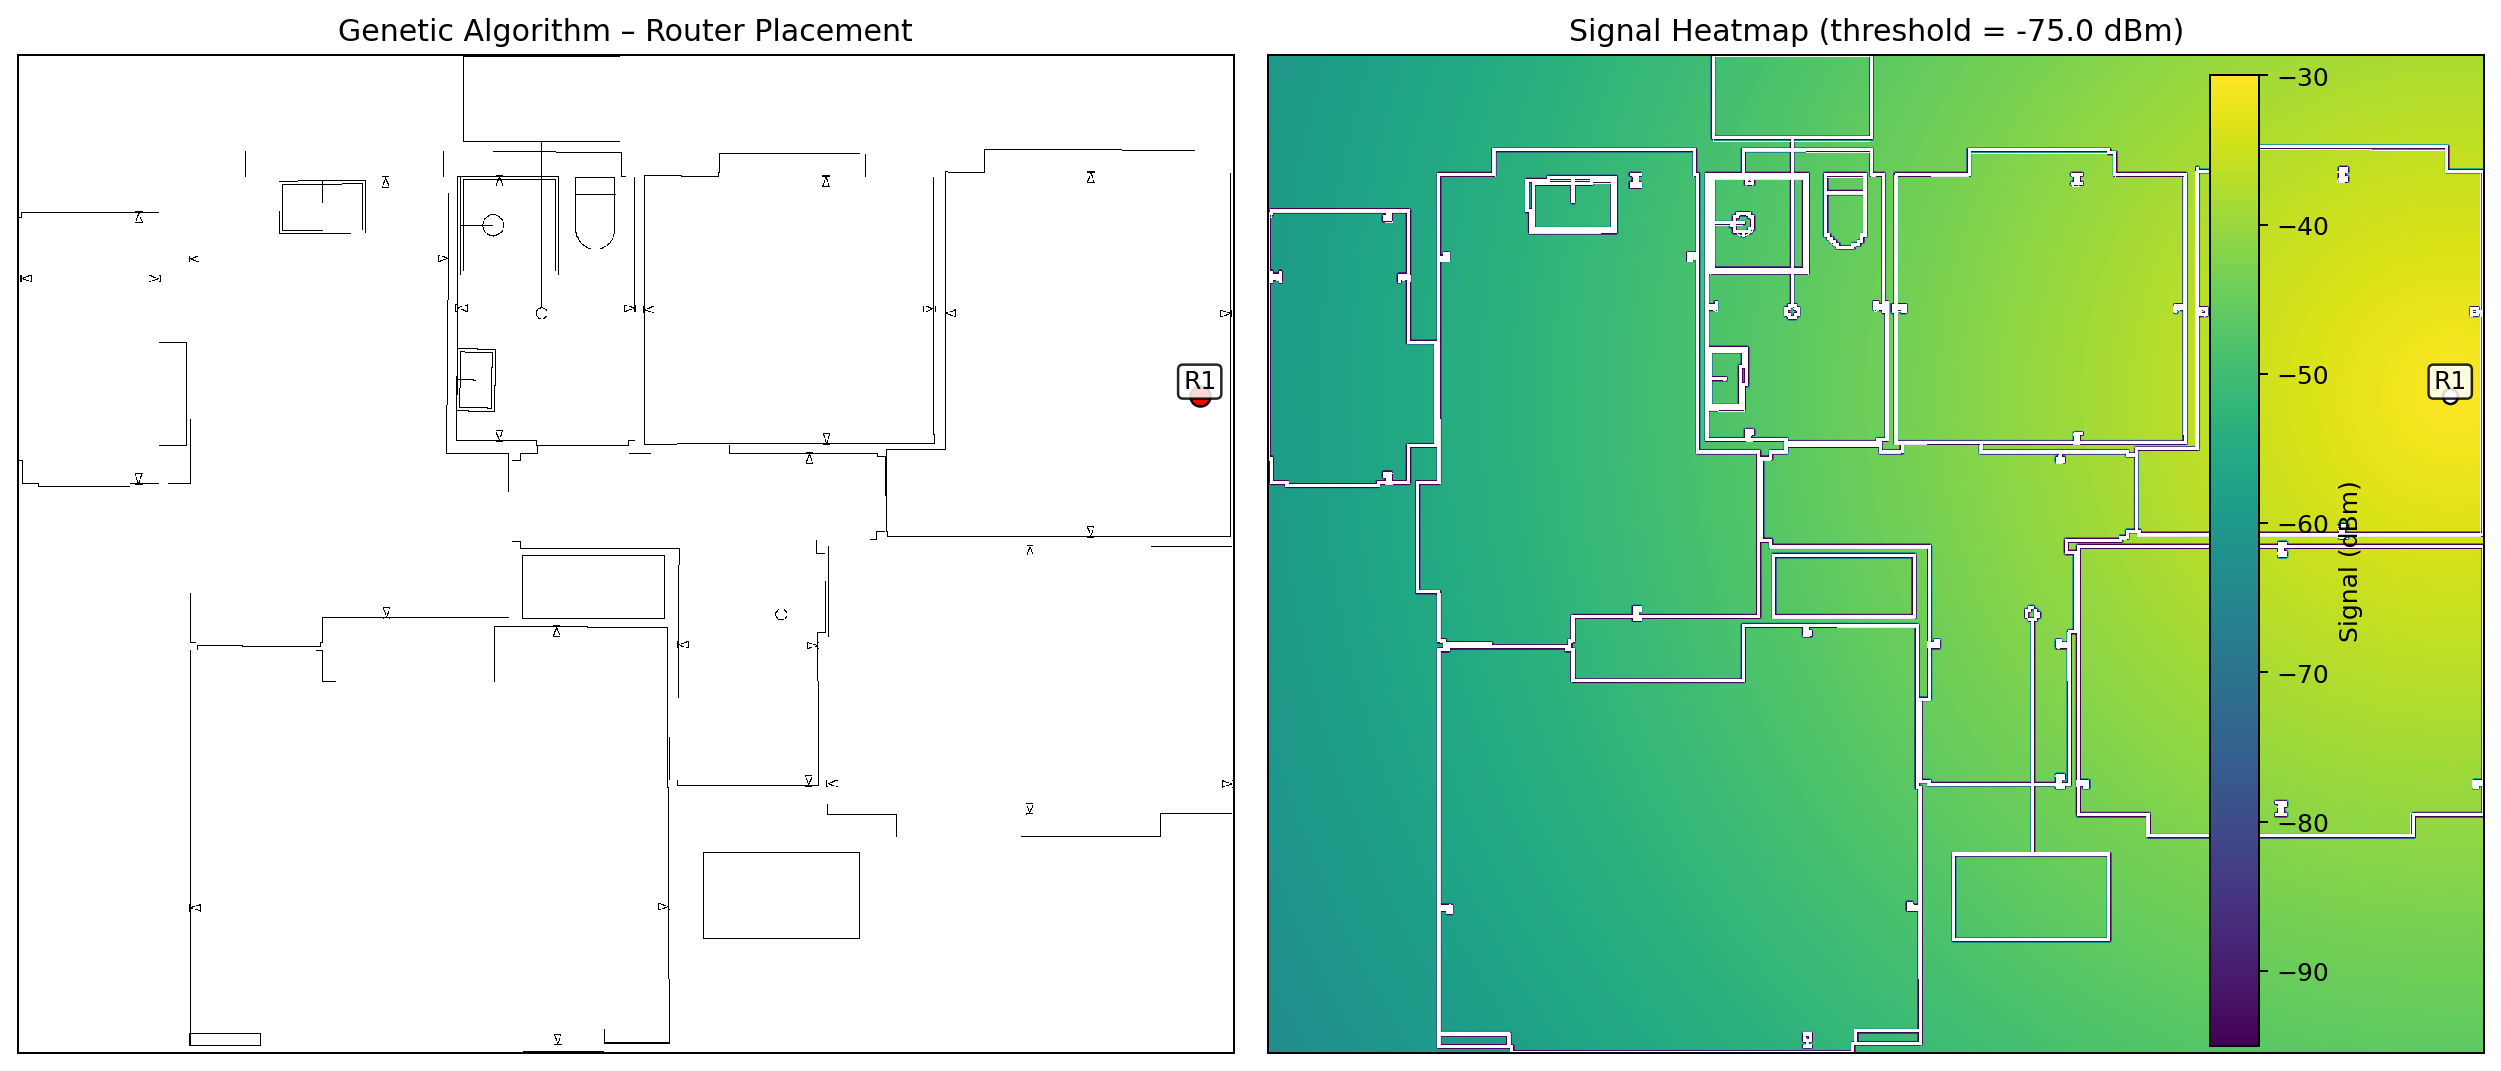
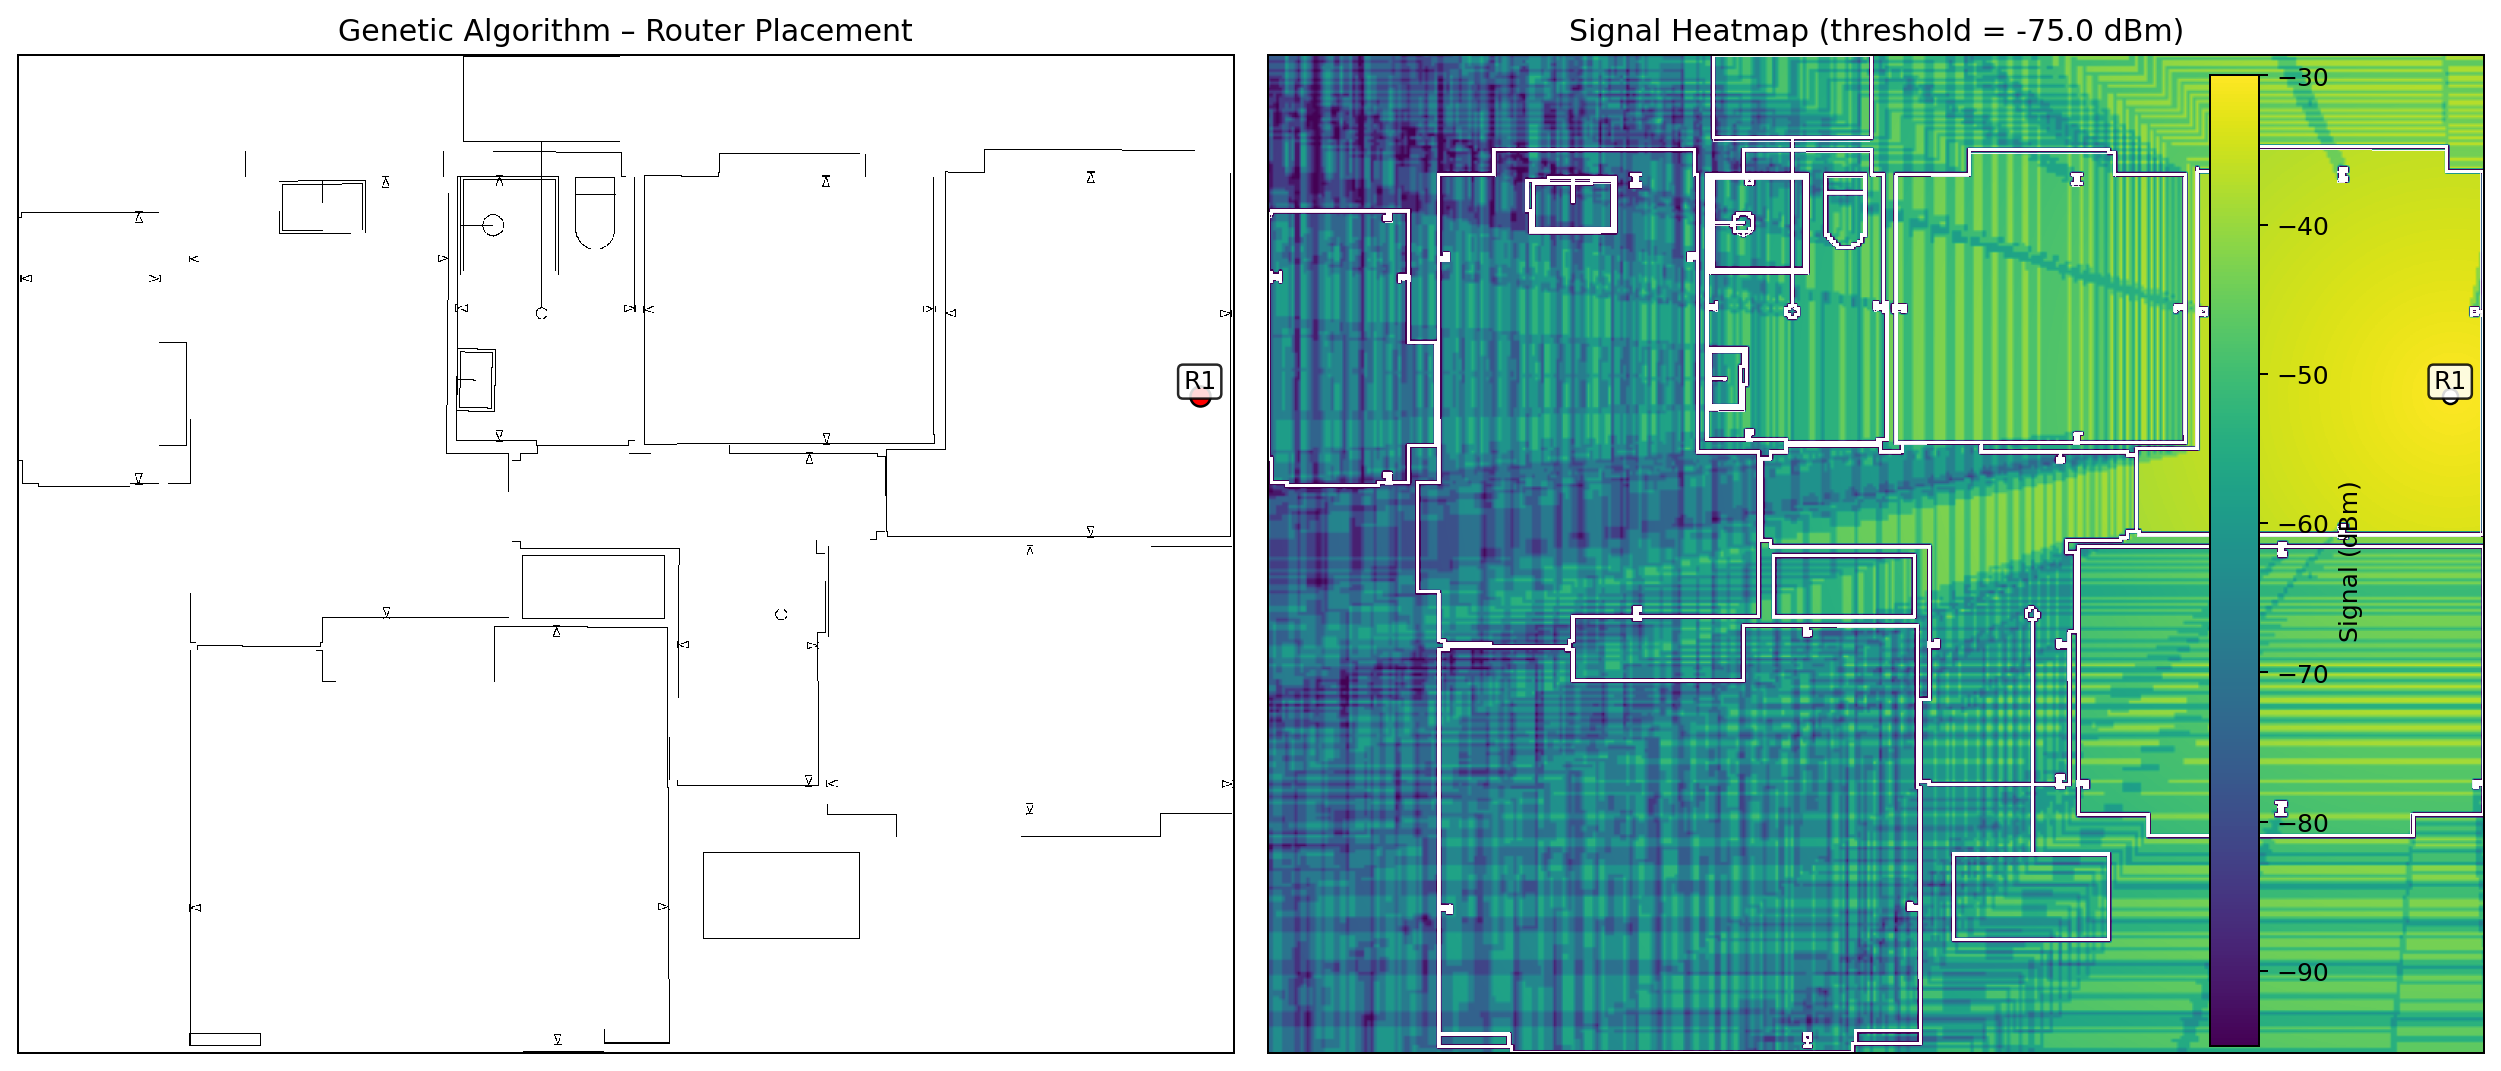
Add realistic signal attenuation and coverage calculations for WiFi placement
Integrate a vectorized ray-sampling method to calculate wall crossings and apply signal attenuation penalties, improving the accuracy of WiFi coverage simulations.

Replit-Commit-Author: Agent
Replit-Commit-Session-Id: 8a9ac715-13c0-4d53-a1d7-ec6735ffe544
Replit-Commit-Checkpoint-Type: full_checkpoint
Replit-Commit-Event-Id: d5a57d97-8d59-45ae-a764-d85f96d514f8
Replit-Commit-Screenshot-Url: https://storage.googleapis.com/screenshot-production-us-central1/68abd7b5-0b85-4e3e-a3d4-29f119f7cc09/8a9ac715-13c0-4d53-a1d7-ec6735ffe544/9Ls9ELE
Replit-Helium-Checkpoint-Created: true

diff --git a/optimization.py b/optimization.py
@@ -1,7 +1,11 @@
 """
 WiFi Router Placement Optimization module.
 Supports three strategies: genetic algorithm (ga), random, and uniform.
-Uses a fast vectorized signal model for speed.
+
+Signal model:
+  - Distance attenuation: S0 - k * distance_m
+  - Wall penalty: WALL_PENALTY dB per wall transition crossed (using vectorized
+    ray sampling via scipy map_coordinates — fast, no Python loops)
 """
 
 import os
@@ -12,79 +16,110 @@ import numpy as np
 import matplotlib
 matplotlib.use("Agg")
 import matplotlib.pyplot as plt
+from scipy.ndimage import map_coordinates
 
-from member_A_genetic_Algorithm_core.ga_core import run_ga, get_free_cells
+from member_A_genetic_Algorithm_core.ga_core import get_free_cells
 from member_B_signal_simulation_engine.signal_math import S_threshold
 
 REPO_ROOT = os.path.dirname(os.path.abspath(__file__))
 OUTPUT_DIR = os.path.join(REPO_ROOT, "outputs")
 
-# Signal constants (mirror signal_math.py)
+# ── Signal constants (must match signal_math.py) ────────────────────────────
 _S0 = -30.0
 _D_LOSS_K = 2.0
 _WALL_PENALTY = 8.0
 
 
-# ── Fast vectorized signal helpers ─────────────────────────────────────────
+# ── Core vectorized signal model ─────────────────────────────────────────────
 
 def _cell_size_m(grid):
-    """Estimate metres per cell from grid width (15 m reference building)."""
+    """Metres per cell, calibrated to a ~15 m reference building width."""
     return 15.0 / grid.shape[1]
 
 
-def _vectorized_heatmap(grid, routers):
+def _wall_crossings_map(grid, rx, ry, n_steps=50):
     """
-    Fast numpy heatmap using distance-based signal (no wall-crossing loop).
-    Returns a (H, W) array, NaN over walls.
+    For a single router at (rx, ry), compute the number of wall-entry
+    transitions (FREE→WALL) from the router to *every* cell in one
+    vectorised pass using scipy map_coordinates.
+
+    Returns an (H, W) float32 array of crossing counts.
+    """
+    h, w = grid.shape
+    y_idx, x_idx = np.mgrid[0:h, 0:w]          # (H, W) each
+
+    # Sample positions along the line router→cell: shape (n_steps, H, W)
+    t = np.linspace(0, 1, n_steps, dtype=np.float32).reshape(-1, 1, 1)
+    x_samp = (rx + t * (x_idx - rx)).reshape(-1)  # (n_steps*H*W,)
+    y_samp = (ry + t * (y_idx - ry)).reshape(-1)
+
+    # Sample grid values (0=free, 1=wall) at each interpolated point
+    sampled = map_coordinates(
+        grid.astype(np.float32),
+        [y_samp, x_samp],
+        order=0, mode='nearest',
+    ).reshape(n_steps, h, w)
+
+    # Count FREE→WALL transitions along each ray
+    crossings = ((sampled[1:] == 1) & (sampled[:-1] == 0)).sum(axis=0)
+    return crossings.astype(np.float32)
+
+
+def _signal_map(grid, routers, n_steps=50):
+    """
+    Full signal heatmap (dBm) with distance attenuation + wall penalty.
+    Returns (H, W) array; NaN over wall cells.
     """
     h, w = grid.shape
     cs = _cell_size_m(grid)
-    y_idx, x_idx = np.mgrid[0:h, 0:w]
-    heat = np.full((h, w), -300.0)
+    y_idx, x_idx = np.mgrid[0:h, 0:w].astype(np.float32)
+    heat = np.full((h, w), -300.0, dtype=np.float32)
+
     for rx, ry in routers:
         dist_m = np.sqrt((x_idx - rx) ** 2 + (y_idx - ry) ** 2) * cs
-        sig = _S0 - _D_LOSS_K * dist_m
+        crossings = _wall_crossings_map(grid, rx, ry, n_steps)
+        sig = _S0 - _D_LOSS_K * dist_m - _WALL_PENALTY * crossings
         heat = np.maximum(heat, sig)
+
     heat[grid != 0] = np.nan
     return heat
 
 
-def _vectorized_coverage(routers, grid):
+def _coverage_metrics(routers, grid, n_steps=50):
     """
-    Fast numpy coverage metrics using distance-based signal (no wall loops).
-    Returns (coverage_pct, avg_signal_dBm).
+    Compute coverage % and average signal using the full wall-penalty model.
+    """
+    heat = _signal_map(grid, routers, n_steps)
+    free_sig = heat[grid == 0]
+    if len(free_sig) == 0:
+        return 0.0, 0.0
+    coverage = float((free_sig >= S_threshold).mean() * 100)
+    avg_sig = float(free_sig.mean())
+    return coverage, avg_sig
+
+
+def _fast_fitness(routers, grid):
+    """
+    Distance-only (no wall) fitness for use INSIDE the GA loop.
+    Fast but approximate — used to guide search, not for final metrics.
     """
     h, w = grid.shape
     cs = _cell_size_m(grid)
-    y_idx, x_idx = np.mgrid[0:h, 0:w]
-    heat = np.full((h, w), -300.0)
+    y_idx, x_idx = np.mgrid[0:h, 0:w].astype(np.float32)
+    heat = np.full((h, w), -300.0, dtype=np.float32)
     for rx, ry in routers:
         dist_m = np.sqrt((x_idx - rx) ** 2 + (y_idx - ry) ** 2) * cs
-        sig = _S0 - _D_LOSS_K * dist_m
-        heat = np.maximum(heat, sig)
+        heat = np.maximum(heat, _S0 - _D_LOSS_K * dist_m)
     free = heat[grid == 0]
     if len(free) == 0:
-        return 0.0, 0.0
-    return float((free >= S_threshold).mean() * 100), float(free.mean())
+        return 0.0
+    return float((free >= S_threshold).mean() * 100)
 
 
-def _vectorized_fitness(routers, grid):
-    cov, _ = _vectorized_coverage(routers, grid)
-    return cov
-
-
-# ── Grid helpers ────────────────────────────────────────────────────────────
-
-def _max_pool(grid, factor):
-    """Downsample grid by factor using max-pooling (wall wins in any block)."""
-    h, w = grid.shape
-    h2, w2 = h // factor, w // factor
-    cropped = grid[:h2 * factor, :w2 * factor]
-    return cropped.reshape(h2, factor, w2, factor).max(axis=(1, 3))
-
+# ── Grid I/O ─────────────────────────────────────────────────────────────────
 
 def load_grids():
-    grid_opt = np.load(os.path.join(REPO_ROOT, "grid.npy")).astype(np.uint8)
+    grid_opt  = np.load(os.path.join(REPO_ROOT, "grid.npy")).astype(np.uint8)
     grid_disp = np.load(os.path.join(REPO_ROOT, "grid_display.npy")).astype(np.uint8)
     meta = {}
     meta_path = os.path.join(REPO_ROOT, "grid_meta.json")
@@ -95,77 +130,67 @@ def load_grids():
 
 
 def _scale_routers(routers, from_grid, to_grid):
-    """Scale router coords from one grid space to another."""
     fh, fw = from_grid.shape
     th, tw = to_grid.shape
-    sx = tw / fw
-    sy = th / fh
-    return [(min(int(x * sx), tw - 1), min(int(y * sy), th - 1)) for x, y in routers]
+    sx, sy = tw / fw, th / fh
+    return [(min(int(x * sx), tw - 1), min(int(y * sy), th - 1))
+            for x, y in routers]
 
 
-# ── Custom fast GA that uses vectorized fitness ─────────────────────────────
+# ── Placement strategies ──────────────────────────────────────────────────────
 
-def _run_fast_ga(grid, num_routers, population_size=20, generations=30, seed=42):
+def _run_ga(grid, num_routers, population_size=20, generations=30, seed=42):
     """
-    GA using a fast vectorized fitness function instead of the slow
-    cell-by-cell signal_math version.
+    Custom GA using the fast (distance-only) fitness for speed.
+    Final metrics are recomputed with the accurate wall model after the GA.
     """
-    import random as rng_mod
-    rng = rng_mod.Random(seed)
-
+    rng = _random.Random(seed)
     free = get_free_cells(grid)
     if num_routers > len(free):
         raise ValueError("num_routers exceeds number of free cells")
 
-    population = [rng.sample(free, num_routers) for _ in range(population_size)]
-    best_routers = population[0][:]
+    pop = [rng.sample(free, num_routers) for _ in range(population_size)]
+    best_ind = pop[0][:]
     best_fit = float('-inf')
 
     for _ in range(generations):
-        fits = [_vectorized_fitness(ind, grid) for ind in population]
+        fits = [_fast_fitness(ind, grid) for ind in pop]
 
-        gen_best_idx = max(range(len(population)), key=lambda i: fits[i])
-        if fits[gen_best_idx] > best_fit:
-            best_fit = fits[gen_best_idx]
-            best_routers = population[gen_best_idx][:]
+        gi = max(range(len(pop)), key=lambda i: fits[i])
+        if fits[gi] > best_fit:
+            best_fit = fits[gi]
+            best_ind = pop[gi][:]
 
-        # Elitism + tournament selection + crossover + mutation
-        elite = sorted(range(len(population)), key=lambda i: fits[i], reverse=True)[:2]
-        new_pop = [population[i][:] for i in elite]
+        elite_idx = sorted(range(len(pop)), key=lambda i: fits[i], reverse=True)[:2]
+        new_pop = [pop[i][:] for i in elite_idx]
 
         while len(new_pop) < population_size:
-            a = max(rng.sample(range(len(population)), 3), key=lambda i: fits[i])
-            b = max(rng.sample(range(len(population)), 3), key=lambda i: fits[i])
-            pa, pb = population[a], population[b]
+            a = max(rng.sample(range(len(pop)), 3), key=lambda i: fits[i])
+            b = max(rng.sample(range(len(pop)), 3), key=lambda i: fits[i])
+            pa, pb = pop[a], pop[b]
             if len(pa) >= 2 and rng.random() < 0.8:
                 cut = rng.randint(1, len(pa) - 1)
                 child = pa[:cut] + pb[cut:]
             else:
                 child = pa[:]
             child = [rng.choice(free) if rng.random() < 0.2 else g for g in child]
-            # repair duplicates
-            seen = set()
-            repaired = []
+            seen, repaired = set(), []
             for c in child:
                 if c not in seen:
-                    repaired.append(c)
-                    seen.add(c)
+                    repaired.append(c); seen.add(c)
             while len(repaired) < num_routers:
                 c = rng.choice(free)
                 if c not in seen:
-                    repaired.append(c)
-                    seen.add(c)
+                    repaired.append(c); seen.add(c)
             new_pop.append(repaired)
 
-        population = new_pop
+        pop = new_pop
 
-    return best_routers
+    return best_ind
 
-
-# ── Placement strategies ─────────────────────────────────────────────────────
 
 def ga_placement(grid, num_routers, seed=42):
-    return _run_fast_ga(grid, num_routers, population_size=20, generations=30, seed=seed)
+    return _run_ga(grid, num_routers, seed=seed)
 
 
 def random_placement(grid, num_routers, seed=None):
@@ -200,23 +225,18 @@ def uniform_placement(grid, num_routers):
                 break
             cx = min_x + (c + 0.5) * zone_w
             cy = min_y + (r + 0.5) * zone_h
-            best = min(free, key=lambda p: (p[0] - cx) ** 2 + (p[1] - cy) ** 2)
-            if best not in routers:
-                routers.append(best)
-            else:
-                for cand in sorted(free, key=lambda p: (p[0] - cx) ** 2 + (p[1] - cy) ** 2):
-                    if cand not in routers:
-                        routers.append(cand)
-                        break
-
+            for cand in sorted(free, key=lambda p: (p[0]-cx)**2 + (p[1]-cy)**2):
+                if cand not in routers:
+                    routers.append(cand)
+                    break
     return routers[:num_routers]
 
 
-# ── Visualization ─────────────────────────────────────────────────────────
+# ── Visualization ─────────────────────────────────────────────────────────────
 
 STRATEGY_LABELS = {
-    "ga": "Genetic Algorithm",
-    "random": "Random",
+    "ga":      "Genetic Algorithm",
+    "random":  "Random",
     "uniform": "Uniform Grid",
 }
 
@@ -226,26 +246,26 @@ def visualize_and_save(grid_disp, routers_disp, strategy,
     images_dir = os.path.join(output_dir, "images")
     os.makedirs(images_dir, exist_ok=True)
 
+    # Compute heatmap on opt grid (small) then upscale — avoids the 2M-cell loop
     if grid_opt is not None and routers_opt is not None:
-        heat_small = _vectorized_heatmap(grid_opt, routers_opt)
-        heat_small_clipped = np.clip(heat_small, -95, -30)
-        nan_mask = np.isnan(heat_small_clipped)
-        from scipy.ndimage import zoom as nd_zoom
+        heat_small = _signal_map(grid_opt, routers_opt, n_steps=50)
+        heat_small = np.clip(heat_small, -95, -30)
+        nan_mask = np.isnan(heat_small)
         th, tw = grid_disp.shape
-        zh = th / grid_opt.shape[0]
-        zw = tw / grid_opt.shape[1]
-        filled = np.where(nan_mask, -200.0, heat_small_clipped)
+        zh, zw = th / grid_opt.shape[0], tw / grid_opt.shape[1]
+        from scipy.ndimage import zoom as nd_zoom
+        filled = np.where(nan_mask, -200.0, heat_small)
         heat = nd_zoom(filled, (zh, zw), order=1)
         mask_up = nd_zoom(nan_mask.astype(float), (zh, zw), order=0)
         heat = np.where(mask_up > 0.5, np.nan, heat)
     else:
-        heat = _vectorized_heatmap(grid_disp, routers_disp)
+        heat = _signal_map(grid_disp, routers_disp, n_steps=50)
         heat = np.clip(heat, -95, -30)
 
     label = STRATEGY_LABELS.get(strategy, strategy)
-
     fig, axes = plt.subplots(1, 2, figsize=(14, 7))
 
+    # Left: placement on floor plan
     ax0 = axes[0]
     ax0.imshow(grid_disp, cmap="gray_r", origin="lower", interpolation="nearest")
     for i, (x, y) in enumerate(routers_disp, start=1):
@@ -253,21 +273,21 @@ def visualize_and_save(grid_disp, routers_disp, strategy,
         ax0.text(x, y + 3, f"R{i}", ha="center", va="bottom",
                  bbox=dict(boxstyle="round,pad=0.2", facecolor="white", alpha=0.85))
     ax0.set_title(f"{label} – Router Placement")
-    ax0.set_xticks([])
-    ax0.set_yticks([])
+    ax0.set_xticks([]); ax0.set_yticks([])
 
+    # Right: signal heatmap with wall overlay
     ax1 = axes[1]
-    im = ax1.imshow(heat, origin="lower", cmap="viridis", interpolation="nearest",
-                    vmin=-95, vmax=-30)
+    im = ax1.imshow(heat, origin="lower", cmap="viridis",
+                    interpolation="nearest", vmin=-95, vmax=-30)
     wall_mask = np.ma.masked_where(grid_disp == 0, grid_disp)
-    ax1.imshow(wall_mask, origin="lower", cmap="gray_r", alpha=0.9, interpolation="nearest")
+    ax1.imshow(wall_mask, origin="lower", cmap="gray_r",
+               alpha=0.9, interpolation="nearest")
     for i, (x, y) in enumerate(routers_disp, start=1):
         ax1.plot(x, y, "wo", markersize=6, markeredgecolor="black")
         ax1.text(x, y + 3, f"R{i}", ha="center", va="bottom",
                  bbox=dict(boxstyle="round,pad=0.2", facecolor="white", alpha=0.85))
     ax1.set_title(f"Signal Heatmap (threshold = {S_threshold} dBm)")
-    ax1.set_xticks([])
-    ax1.set_yticks([])
+    ax1.set_xticks([]); ax1.set_yticks([])
 
     cbar = fig.colorbar(im, ax=axes.ravel().tolist(), fraction=0.025, pad=0.02)
     cbar.set_label("Signal (dBm)")
@@ -279,7 +299,7 @@ def visualize_and_save(grid_disp, routers_disp, strategy,
     return save_path
 
 
-# ── Main entry point ─────────────────────────────────────────────────────────
+# ── Main entry point ──────────────────────────────────────────────────────────
 
 def run_optimization(strategy, num_routers, seed=42):
     grid_opt, grid_disp, meta = load_grids()
@@ -293,7 +313,8 @@ def run_optimization(strategy, num_routers, seed=42):
     else:
         raise ValueError(f"Unknown strategy: {strategy}")
 
-    coverage_pct, avg_signal = _vectorized_coverage(routers_opt, grid_opt)
+    # Accurate coverage metrics using the full wall-penalty model
+    coverage_pct, avg_signal = _coverage_metrics(routers_opt, grid_opt, n_steps=50)
     routers_disp = _scale_routers(routers_opt, grid_opt, grid_disp)
 
     image_path = visualize_and_save(
@@ -305,10 +326,10 @@ def run_optimization(strategy, num_routers, seed=42):
         "strategy": strategy,
         "num_routers": num_routers,
         "routers_optimization_grid": [{"x": int(x), "y": int(y)} for x, y in routers_opt],
-        "routers_display_grid": [{"x": int(x), "y": int(y)} for x, y in routers_disp],
-        "coverage_percent": float(coverage_pct),
-        "average_signal_dBm": float(avg_signal),
-        "image_path": image_path,
+        "routers_display_grid":      [{"x": int(x), "y": int(y)} for x, y in routers_disp],
+        "coverage_percent":          float(coverage_pct),
+        "average_signal_dBm":        float(avg_signal),
+        "image_path":                image_path,
     }
 
     os.makedirs(OUTPUT_DIR, exist_ok=True)
